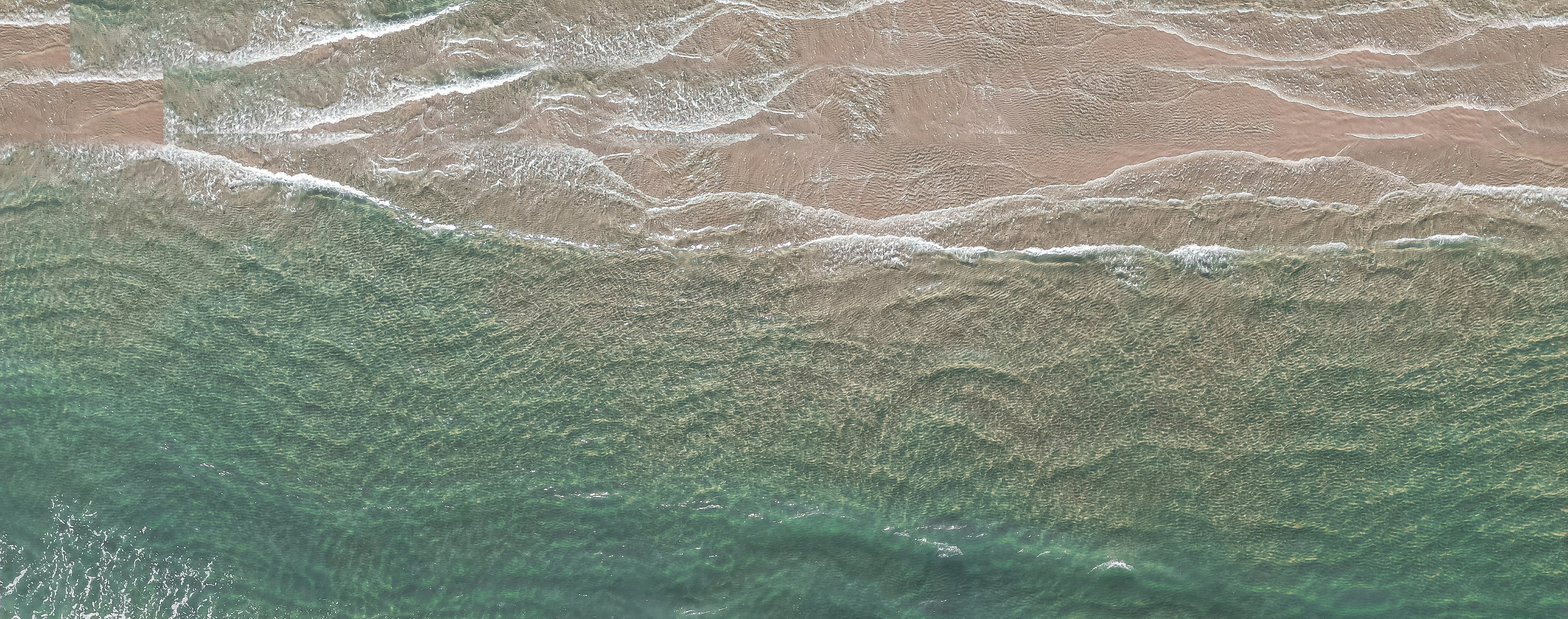
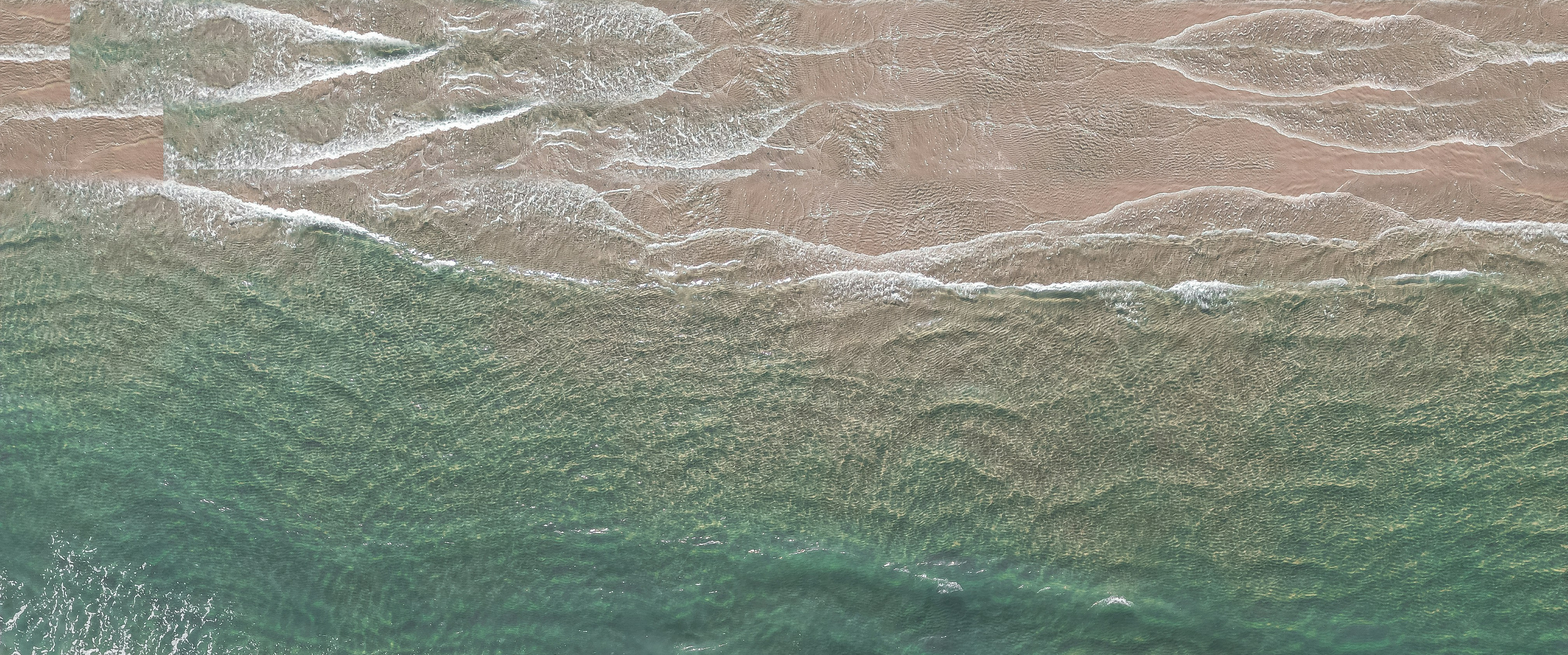
Give the shoreline a little more sand under the lows.
A taller window was running off the bottom of the beach and stretching the edge into stripes.

diff --git a/src/shore-photo.js b/src/shore-photo.js
@@ -83,8 +83,8 @@ export function createShorePhoto() {
   });
   let photoTex = null;
   let photoW = 4032;
-  let photoH = 1594;
-  const foamRow = 514;
+  let photoH = 1686;
+  const foamRow = 606;
   let curveTex = null;
   const curveW = 2048;
   const curveBytes = new Uint8Array(curveW * 4);
